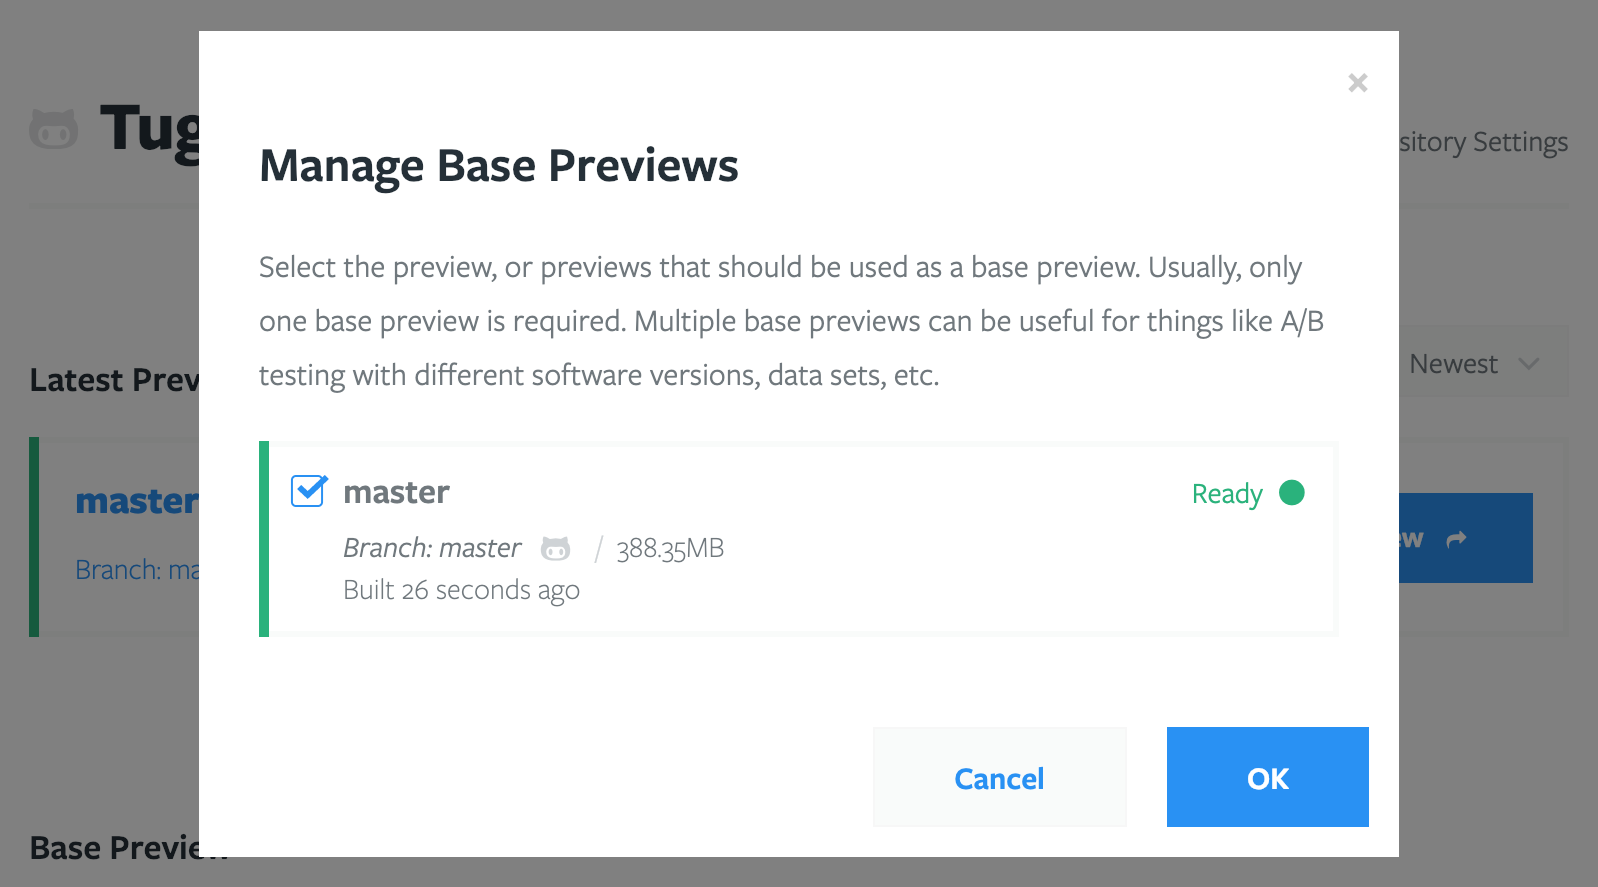
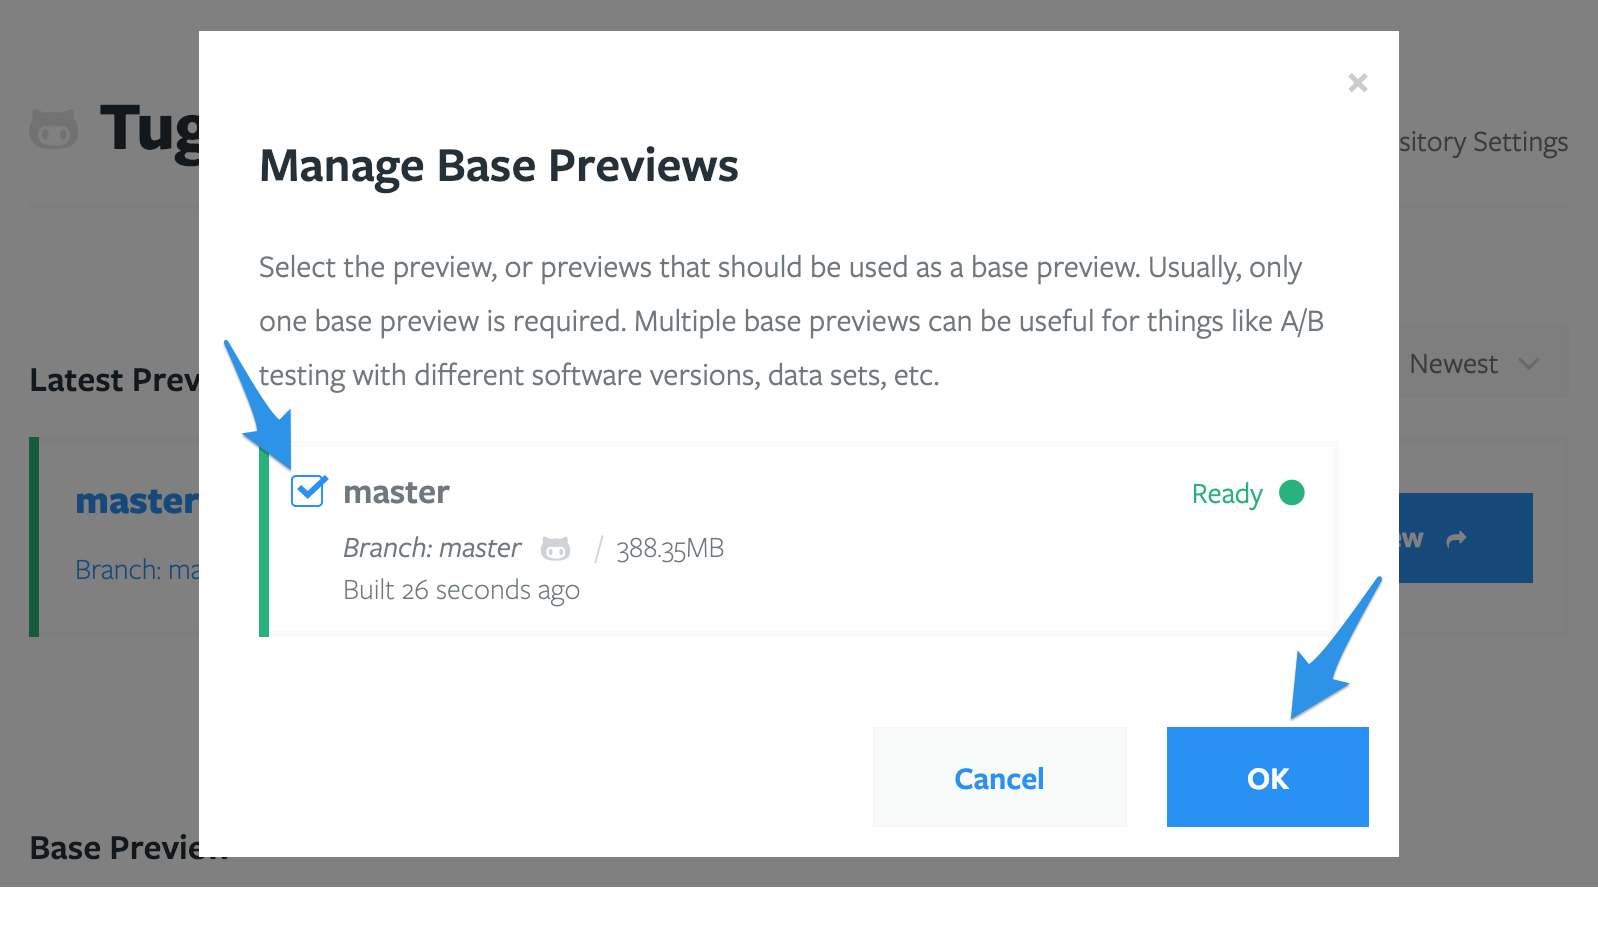
Draft Building a Preview

diff --git a/building-a-preview/index.md b/building-a-preview/index.md
@@ -2,15 +2,13 @@
 
 - [Build a Preview](#build-a-preview)
 - [Share your Preview](#share-your-preview)
-- [Preview Actions]
+- [Preview Actions](#preview-actions)
 - [Preview status](#preview-status)
-- [Administer Previews](#administer-previews)
 - [Set a Base Preview](#set-a-base-preview)
 - [Administer Base Previews](#administer-base-previews)
 - [Auto-generate Previews](#auto-generate-previews)
 - [Auto-delete Previews](#auto-delete-previews)
 - [Optimize your Preview builds](#optimize-your-preview-builds)
-
 
 ## Build a Preview
 
@@ -44,13 +42,13 @@ After you've built your Preview, there are a few ways you can share it:
 
 ### Manually share the URL of your Preview
 
-Want to share a Preview link manually with Lisa in Product, or Al the client? It couldn't be easier. Just go to the Preview you want to share, and either open it and copy the URL from the browser's address bar, or use the browser options to Copy Link on the Preview button.
+Want to share a Preview link manually with Lisa in Product, or Al the client? It couldn't be easier. Just go to the Preview you want to share, and open the Preview and copy the URL from the browser's address bar, or use the browser options to Copy Link on the **Preview** button.
 
-Send that link to the person who needs to look at the Preview, and they'll be able to view it. That person doesn't need to be a member of your [Tugboat crew](../administering-tugboat-crew/index.md), or able to view the git repo where the code is hosted.
+Send that link to the person who needs to look at the Preview, and they'll be able to view it. That person doesn't need to be a member of your [Tugboat crew](../administering-tugboat-crew/index.md), or able to view the git repo where the code is hosted - you can share your Preview link with anyone.
 
 ### Configure Tugboat to auto-post Preview links
 
-When you're using the Tugboat integration with [GitHub](../setting-up-tugboat/index.md#github), [GitLab](../setting-up-tugboat/index.md#gitlab) or [BitBucket](../setting-up-tugboat/index.md#bitbucket), you can configure your Tugboat to automatically post links to Previews as comments on pull requests. Configure this option in [Repository Settings](../setting-up-tugboat/modify-settings-for-your-github-gitlab-or-bitbucket-integration/index.md).
+When you're using the Tugboat integration with [GitHub](../setting-up-tugboat/index.md#github), [GitLab](../setting-up-tugboat/index.md#gitlab) or [BitBucket](../setting-up-tugboat/index.md#bitbucket), you can configure your Tugboat to automatically post links to Previews as comments on pull requests. Configure this option in [Repository Settings](../setting-up-tugboat/index.md#modify-settings-for-your-github-gitlab-or-bitbucket-integration).
 
 ## Preview Actions
 
@@ -69,7 +67,7 @@ After you've built a Preview, you'll see an **Actions** drop-down menu just to t
 
 #### Clone
 
-Quickly duplicate a Preview from the snapshot created when the original finished building.
+Quickly duplicate a Preview from the snapshot created when the original finished building. This is a great option if you want to generate multiple Previews from the same code so multiple folks can QA or tinker simultaneously. You could also use this feature to create a demo sandbox, or do limited a/b testing.
 
 #### Cancel
 
@@ -81,9 +79,9 @@ Delete a Preview.
 
 #### Lock
 
- Lock a Preview. A locked Preview stays in its current state, and will not be updated by Tugboat, including updates from new pull request commits. This overrides any repo-specific settings for things like _Rebuild Updated Pull Requests Automatically_, _Rebuild Orphaned Previews Automatically_, _Rebuild Stale Previews Automatically_, _Refresh Base Previews Automatically_.
+Lock a Preview. A locked Preview stays in its current state, and will not be updated by Tugboat - which means it won't auto-update the Preview from updated pull requests or [Preview Actions](#preview-actions). This overrides any repo-specific settings for things like _Rebuild Updated Pull Requests Automatically_, _Rebuild Orphaned Previews Automatically_, _Rebuild Stale Previews Automatically_, _Refresh Base Previews Automatically_.
 
- Lock Previews for longer reviews or to avoid interruptions during a demo.
+Lock Previews for longer reviews or to avoid interruptions during a demo.
 
 #### Rebuild
 
@@ -97,7 +95,7 @@ Rebuild an existing Tugboat Preview from scratch.
 
 #### Reset
 
-Reset a preview to the state it was in when it finished building. This allows you to quickly undo any changes you made for testing, etc.
+Reset a Preview to the state it was in when it finished building. This allows you to quickly undo any changes you made for testing, etc.
 
 #### Start
 
@@ -134,7 +132,7 @@ Preview status is indicated in a couple of different ways:
 - **Resuming:** When you've used the Action -> Start option, you'll see a `resuming` status in yellow while the Preview starts spinning up [services](../setting-up-services/index.md) again.
 - **Stopping:** When you've used the Action -> Stop option, you'll see a `stopping` status in yellow while the Preview goes through the process of stopping [services](../setting-up-services/index.md).
 - **Stopped:** When you've used the Action -> Stop option, you'll see a `stopped` status in red to indicate that the Preview has successfully stopped [services](../setting-up-services/index.md).
-- **Failed:** When a Preview build, rebuild or refresh can't complete, you'll see a `failed` status in red. For help with a `failed` preview, take a look at our [troubleshooting](../setting-up-services/index.md) docs, or go to our [Help and Support](#support) page to join our Slack support channel or email us.
+- **Failed:** When a Preview build, rebuild or refresh can't complete, you'll see a `failed` status in red. For help with a `failed` preview, take a look at our [troubleshooting](../setting-up-services/index.md) docs, or go to our [Help and Support](../help-and-support/index.md) page to join our Slack support channel or email us.
 
 ## Set a Base Preview
 
@@ -143,7 +141,7 @@ If you want to speed up your Preview builds, and make subsequent Preview builds 
 - [How Base Previews work](#how-base-previews-work)
 - [How to set a Base Preview](#how-to-set-a-base-preview)
 - [Using multiple Base Previews](#using-multiple-base-previews)
-- [Building a Preview from scratch after you've set a Base Preview](#building-a-preview-from-scratch-after-you-ve-set-a-base-preview)
+- [Building a Preview from scratch after you've set a Base Preview](#building-a-preview-from-scratch-after-youve-set-a-base-preview)
 
 ### How Base Previews work
 
@@ -157,15 +155,24 @@ In addition to speeding up your Preview builds, Tugboat saves disk space by stor
 
 ### How to set a Base Preview
 
-To create a Base Preview, you'll need to have a Preview build to serve as your starting point.
+To create a Base Preview, you'll first need to have a [Preview build](#build-a-preview) to serve as your starting point.
+
+1. Go to the **Manage Base Previews** link on the Repository Dashboard;
+2. Click the checkbox next to the Preview you want to use as a Base Preview;
+3. Press the **OK** button.
+
+That preview will be moved to the **Base Preview** section of the Repository Dashboard. From now on, Previews will build from the snapshot created when the Base Preview was built.
+
+1. Go to the **Manage Base Previews** link on the Repository Dashboard.
 
 ![Base Preview Selection](_images/base-preview-before.png)
 
-From there, go to the `Manage Base Previews` link on the Repository Dashboard and select the Preview you want to use as a Base Preview.
+2. Click the checkbox next to the Preview you want to use as a Base Preview.
+3. Press the **OK** button.
 
 ![Base Preview Selection](_images/base-preview-select.png)
 
-That preview will be moved to the "Base Preview" section of the Repository Dashboard.
+That preview will be moved to the **Base Preview** section of the Repository Dashboard.
 
 ![Base Preview Selection](_images/base-preview-after.png)
 
@@ -183,6 +190,8 @@ Tugboat allows multiple Base Previews to be defined. The effect of doing this is
 
 This feature allows you to test code, for instance, against different PHP versions, database content, etc.
 
+![Multiple Base Previews generating multiple Preview builds](_images/multiple_base_preview_preview_builds.png)
+
 ### Building a Preview from scratch after you've set a Base Preview
 
 Once you've set a Base Preview, new Previews build on that Base Preview by default. If you want a Preview to build from scratch, instead of a Base Preview:
@@ -197,13 +206,62 @@ Now your Preview will build from scratch!
 
 ## Administer Base Previews
 
-- Add a new Base Preview
-- Add multiple Base Previews
-- Stop using a Base Preview
-- [Keeping Base Previews updated](#keeping-base-previews-updated)
-- Using Preview Actions on a Base Preview
+- [Add a new Base Preview](#add-a-new-base-preview)
+- [Add multiple Base Previews](#add-multiple-base-previews)
+- [Stop using a Base Preview](#stop-using-a-base-preview)
+- [Keeping Base Previews up-to-date](#keeping-base-previews-up-to-date)
+- [Using Preview Actions on a Base Preview](#using-preview-actions-on-a-base-preview)
 
-### Keeping Base Previews updated
+### Add a new Base Preview
+
+Adding a new Base Preview can mean a few different things:
+
+- [Set a Base Preview for the first time](#set-a-base-preview-for-the-first-time)
+- [Add additional/multiple Base Previews](#add-additionalmultiple-base-previews)
+- [Stop using the current Base Preview and set a new Base Preview](#stop-using-the-current-base-preview-and-set-a-new-base-preview)
+
+#### Set a Base Preview for the first time
+
+Ready to get started with your first Base Preview? Check out: [How to set a Base Preview](#how-to-set-a-base-preview).
+
+#### Add additional/multiple Base Previews
+
+Want to use more than one Base Preview? Take a look at: [Add multiple Base Previews](#add-multiple-base-previews).
+
+#### Stop using the current Base Preview and set a new Base Preview
+
+Want to change the Base Preview you're using? First, you'll need to have a [Preview build](#build-a-preview) ready to set as your new Base Preview. Then:
+
+1. Go to the **Manage Base Previews** link on the Repository Dashboard;
+2. Click the checkbox next to the Base Preview you want to stop using to deselect it;
+3. Click the checkbox next to the Preview you want to set as your new Base Preview;
+3. Press the **OK** button.
+
+The Preview you've deselected will move out of the Base Previews section of the dashboard, and the new Base Preview will appear here, instead.
+
+![Deselect and select new Base Preview](_images/deselect_and_select_new_base_preview.png)
+
+### Add multiple Base Previews
+
+Want to use more than one Base Preview? No problem! Simply follow the instructions in [How to set a Base Preview](#how-to-set-a-base-preview), and check the checkboxes next to all of the Previews that you want to use as Base Previews.
+
+![Set multiple Base Previews](_images/set_multiple_base_previews.png)
+
+Keep in mind that when you've selected multiple Base Previews, every new Preview build (including automated builds from pull requests) will create a build from _each_ Base Preview. In my sample project, I've set two base Previews, and building a Preview from a new PR automatically created two Previews.
+
+![Multiple Base Previews generating multiple Preview builds](_images/multiple_base_preview_preview_builds.png)
+
+### Stop using a Base Preview
+
+If you want to stop using a Base Preview, simply:
+
+1. Go to the **Manage Base Previews** link on the Repository Dashboard;
+2. Click the checkbox next to the Base Preview you want to stop using;
+3. Press the **OK** button.
+
+The deselected Preview will disappear from the Base Preview section of the dashboard, and subsequent Preview builds - including automated builds from git provider integrations - will no longer start from that Base Preview.
+
+### Keeping Base Previews up-to-date
 
 If you want to keep your Base Previews up-to-date, there are two ways you can do it:
 
@@ -223,12 +281,91 @@ During this update, Tugboat:
 
 You can also update a Base Preview manually.
 
-From the Repository Dashboard, click into the **Actions** drop-down next to the Preview button for the Base Preview you want to update. From there, you can [Refresh](#refresh) the Base Preview to update , as well as
+From the Repository Dashboard, click into the **Actions** drop-down next to the Preview button for the Base Preview you want to update. From there, you can simply [Refresh](#refresh) the Base Preview to update it, or [Rebuild](#rebuild) if you want to build it fresh from scratch.
+
+### Using Preview Actions on a Base Preview
+
+You can use all the normal [Preview Actions](#preview-actions) on a Base Preview just like you would on a regular Preview build - but there are a couple of things to keep in mind:
+
+- If you're using the options to [Rebuild Orphaned Previews Automatically](..setting-up-tugboat/index.md#rebuild-orphaned-previews-automatically) and/or [Rebuild Stale Previews Automatically](..setting-up-tugboat/index.md#rebuild-stale-previews-automatically), [Rebuilding](#rebuild) or [Refreshing](#refresh) a Base Preview will also kick off processes to Rebuild or Refresh Previews that were generated from the Base Preview.
+- If you've stopped using a Base Preview, but it was previously used to generate subsequent Previews, the above settings still apply; you'll get a dialogue box detailing the potential pitfalls of doing this, and asking you to confirm whether you want to rebuild the Preview - and separately, whether you want to rebuild subsequent Previews.
+
+![Confirm a rebuild from a former Base Preview](_images/confirm_rebuild_from_former_base_preview.png)
 
 ## Auto-generate Previews
 
+We love automatically generating Previews from new pull requests - we think it's one of Tugboat's best features!
+
+- [What are the options for auto-generating Previews?](#options-for-auto-generating-previews)
+- [How to configure Tugboat to auto-generate Previews](#how-to-configure-tugboat-to-auto-generate-previews)
+
+### Options for auto-generating Previews
+
+If you're using a [git provider integration](../setting-up-tugboat/index.md#connect-with-your-provider), you'll be able to auto-generate Previews in a few different ways:
+
+- **Build Pull Requests Automatically**  
+  Tugboat automatically creates a Preview when a pull request is opened.
+- **Rebuild Updated Pull Requests Automatically**  
+  Tugboat automatically rebuilds a Preview when the corresponding pull request is updated.
+- **Build Previews for Forked Pull Requests**  
+  Tugboat builds Previews for pull requests made to the primary repo from forked repositories. **__There are security implications from using this setting:__** any secrets in your Preview will be accessible by the owner of the forked repository.
+
+Besides auto-generating Previews from pull requests, you can also auto-generate Previews when you make changes to a [Base Preview](#set-a-base-preview). If you've [set a Base Preview](#how-to-set-a-base-preview), you can have Tugboat:
+
+- Rebuild Orphaned Previews Automatically
+  Automatically rebuild Previews when the Base Preview they were built from is [rebuilt](#rebuild).
+- Rebuild Stale Previews Automatically
+  Automatically rebuild Previews when the Base Preview they were built from is [refreshed](#refresh).
+
+### How to configure Tugboat to auto-generate Previews
+
+To configure Tugboat to auto-generate Previews, you'll need to:
+
+1. Go to username -> My Projects at the upper-right of the Tugboat screen;
+2. Select the project where you want to configure auto-generate settings for Previews;
+3. Click into Settings for the repository;
+4. Click the checkboxes for the auto-generate features you'd like to turn on/off.
+
+> ####Hint::Missing auto-generate from PR options?
+>
+>Don't see the options to auto-generate Previews from pull requests? You'll need to [connect your preferred git provider to Tugboat](../setting-up-tugboat/index.md#connect-with-your-provider), and then [delete](../setting-up-tugboat/index.md#delete-the-repo) and [re-add the provider-specific version of the repository](../setting-up-tugboat/index.md#add-repos-to-the-project) to your Tugboat project.
+
 ## Auto-delete Previews
 
+Each of the Previews in your Tugboat project count toward the total storage space available in your project's billing tier. By default, Tugboat is configured to automatically delete Previews when their corresponding git pull requests are merged or closed.
 
+If you want to manually change the setting to automatically delete Previews when their PRs are merged or closed:
+
+1. Go to username -> My Projects at the upper-right of the Tugboat screen;
+2. Select the project where you want to configure auto-delete settings for Previews;
+3. Click into Settings for the repository;
+4. Click the checkbox to change the setting.
 
 ## Optimize your Preview builds
+
+Do your Previews take a long time to build? Some things, like importing large assets, are just going to take time - but there are some things you can do to speed up your Preview builds:
+
+- [Use Service Commands to create a Base Preview that does the heavy lifting](#use-service-commands-to-create-a-base-preview-that-does-the-heavy-lifting)
+- [Use the Auto Refresh Base Preview functionality to update large assets](#use-the-auto-refresh-base-preview-functionality-to-update-large-assets)
+- [Contact Tugboat support for help optimizing your Config file](#contact-tugboat-support-for-help-optimizing-your-config-file)
+- [Upgrade your project tier to a higher-performance tier](#upgrade-your-project-tier-to-a-higher-performance-tier)
+
+### Use Service Commands to create a Base Preview that does the heavy lifting
+
+The big value of using a Base Preview is that you can front-load the work into a time-consuming Preview you only have to build once, and then use that as a base to iterate on with smaller, faster-building Previews.
+
+You can do this by using [Service Commands](../setting-up-services/index.md#service-commands) in the `init` stage of the Preview build to do the resource-intensive, time-intensive processes - and then [set that as your Base Preview](#set-a-base-preview) so you don't have to complete those steps in every single build. This is the perfect time to install a large database that you won't have to update in subsequent Previews, or download and configure the host of [services](../setting-up-services/index.md#services-in-the-context-of-tugboat) that power your Tugboat.
+
+### Use the Auto Refresh Base Preview functionality to update large assets
+
+If you're updating large assets as part of the `update` stage of your Tugboat build, you can configure Tugboat to [automatically refresh your Base Preview](#keeping-base-previews-updated) while your crew isn't working. By default, Tugboat automatically refreshes Base Previews daily at 12am UTC (8pm EDT). You can set this for a time and frequency that works best for your team, and then you won't have to manually update your Base Preview when you're about to test an important build - it will already have the latest database, or any large assets you need, whenever you're ready.
+
+### Contact Tugboat support for help optimizing your Config file
+
+Sometimes, speeding up your Preview builds can be as simple as having a second set of eyes take a look at your Config file and make recommendations to help you optimize it. This might include something like running a command in `init` instead of `update`, or scripting a few simple commands. The team at Tugboat is happy to help; our [Support](../support/index.md) page can direct you to our Tugboat support Slack, or an email address where you can reach us.
+
+### Upgrade your project tier to a higher-performance tier
+
+If it's not a simple question of optimizing your Config file - for example, if you're building a complex or resource-intensive sequence of code in every Tugboat Preview - you might want to consider upgrading your Tugboat Project to a higher-performance tier. A higher-performance tier gives you more CPU power and RAM to build your Previews, which can mildly or dramatically speed up your build times. When build times matter, keep this option in mind.
+
+You can change your Tugboat plan in **Project Settings**.

diff --git a/SUMMARY.md b/SUMMARY.md
@@ -18,6 +18,18 @@
   - [Add a Tugboat bot to your team](administering-tugboat-crew/index.md#add-a-tugboat-bot-to-your-team)
   - [User permission levels explained](administering-tugboat-crew/index.md#user-permission-levels-explained)
 
+- [Building a Preview](building-a-preview/index.md)
+
+  - [Build a Preview](building-a-preview/index.md#build-a-preview)
+  - [Share your Preview](building-a-preview/index.md#share-your-preview)
+  - [Preview Actions](building-a-preview/index.md#preview-actions)
+  - [Preview status](building-a-preview/index.md#preview-status)
+  - [Set a Base Preview](building-a-preview/index.md#set-a-base-preview)
+  - [Administer Base Previews](building-a-preview/index.md#administer-base-previews)
+  - [Auto-generate Previews](building-a-preview/index.md#auto-generate-previews)
+  - [Auto-delete Previews](building-a-preview/index.md#auto-delete-previews)
+  - [Optimize your Preview builds](building-a-preview/index.md#optimize-your-preview-builds)
+
 - [Concepts](concepts/index.md)
 
   - [Projects](concepts/projects/index.md)
